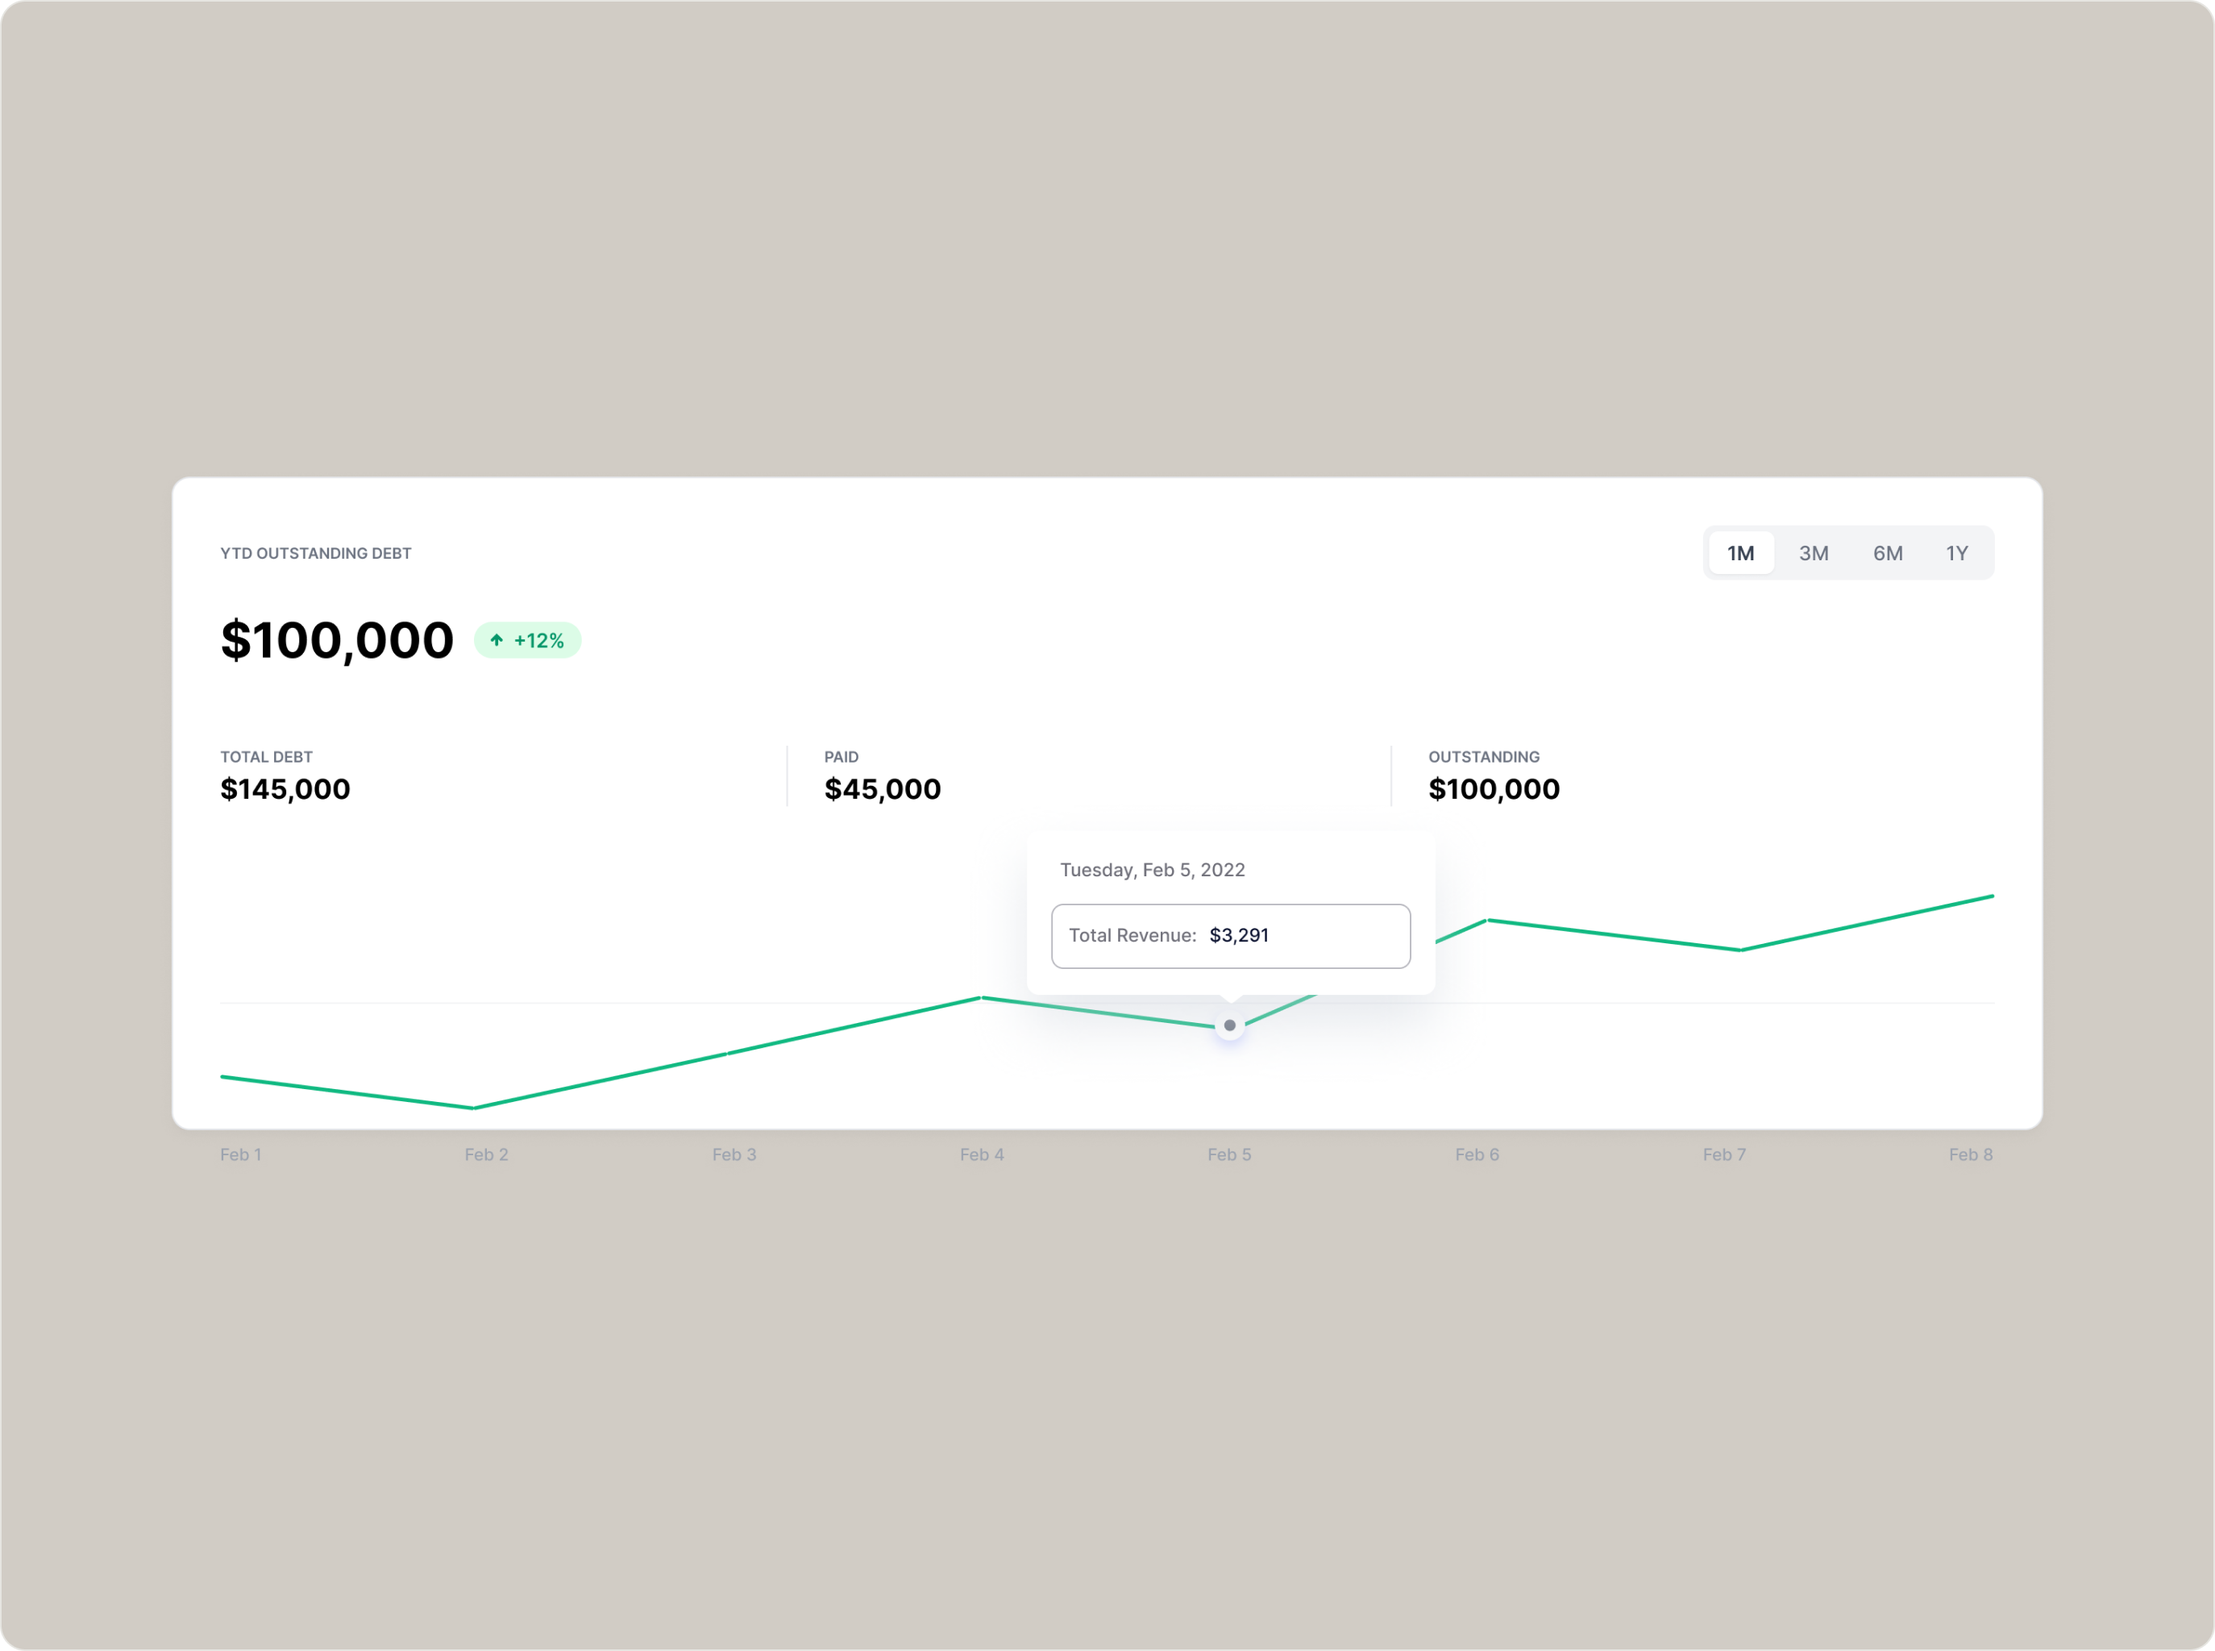
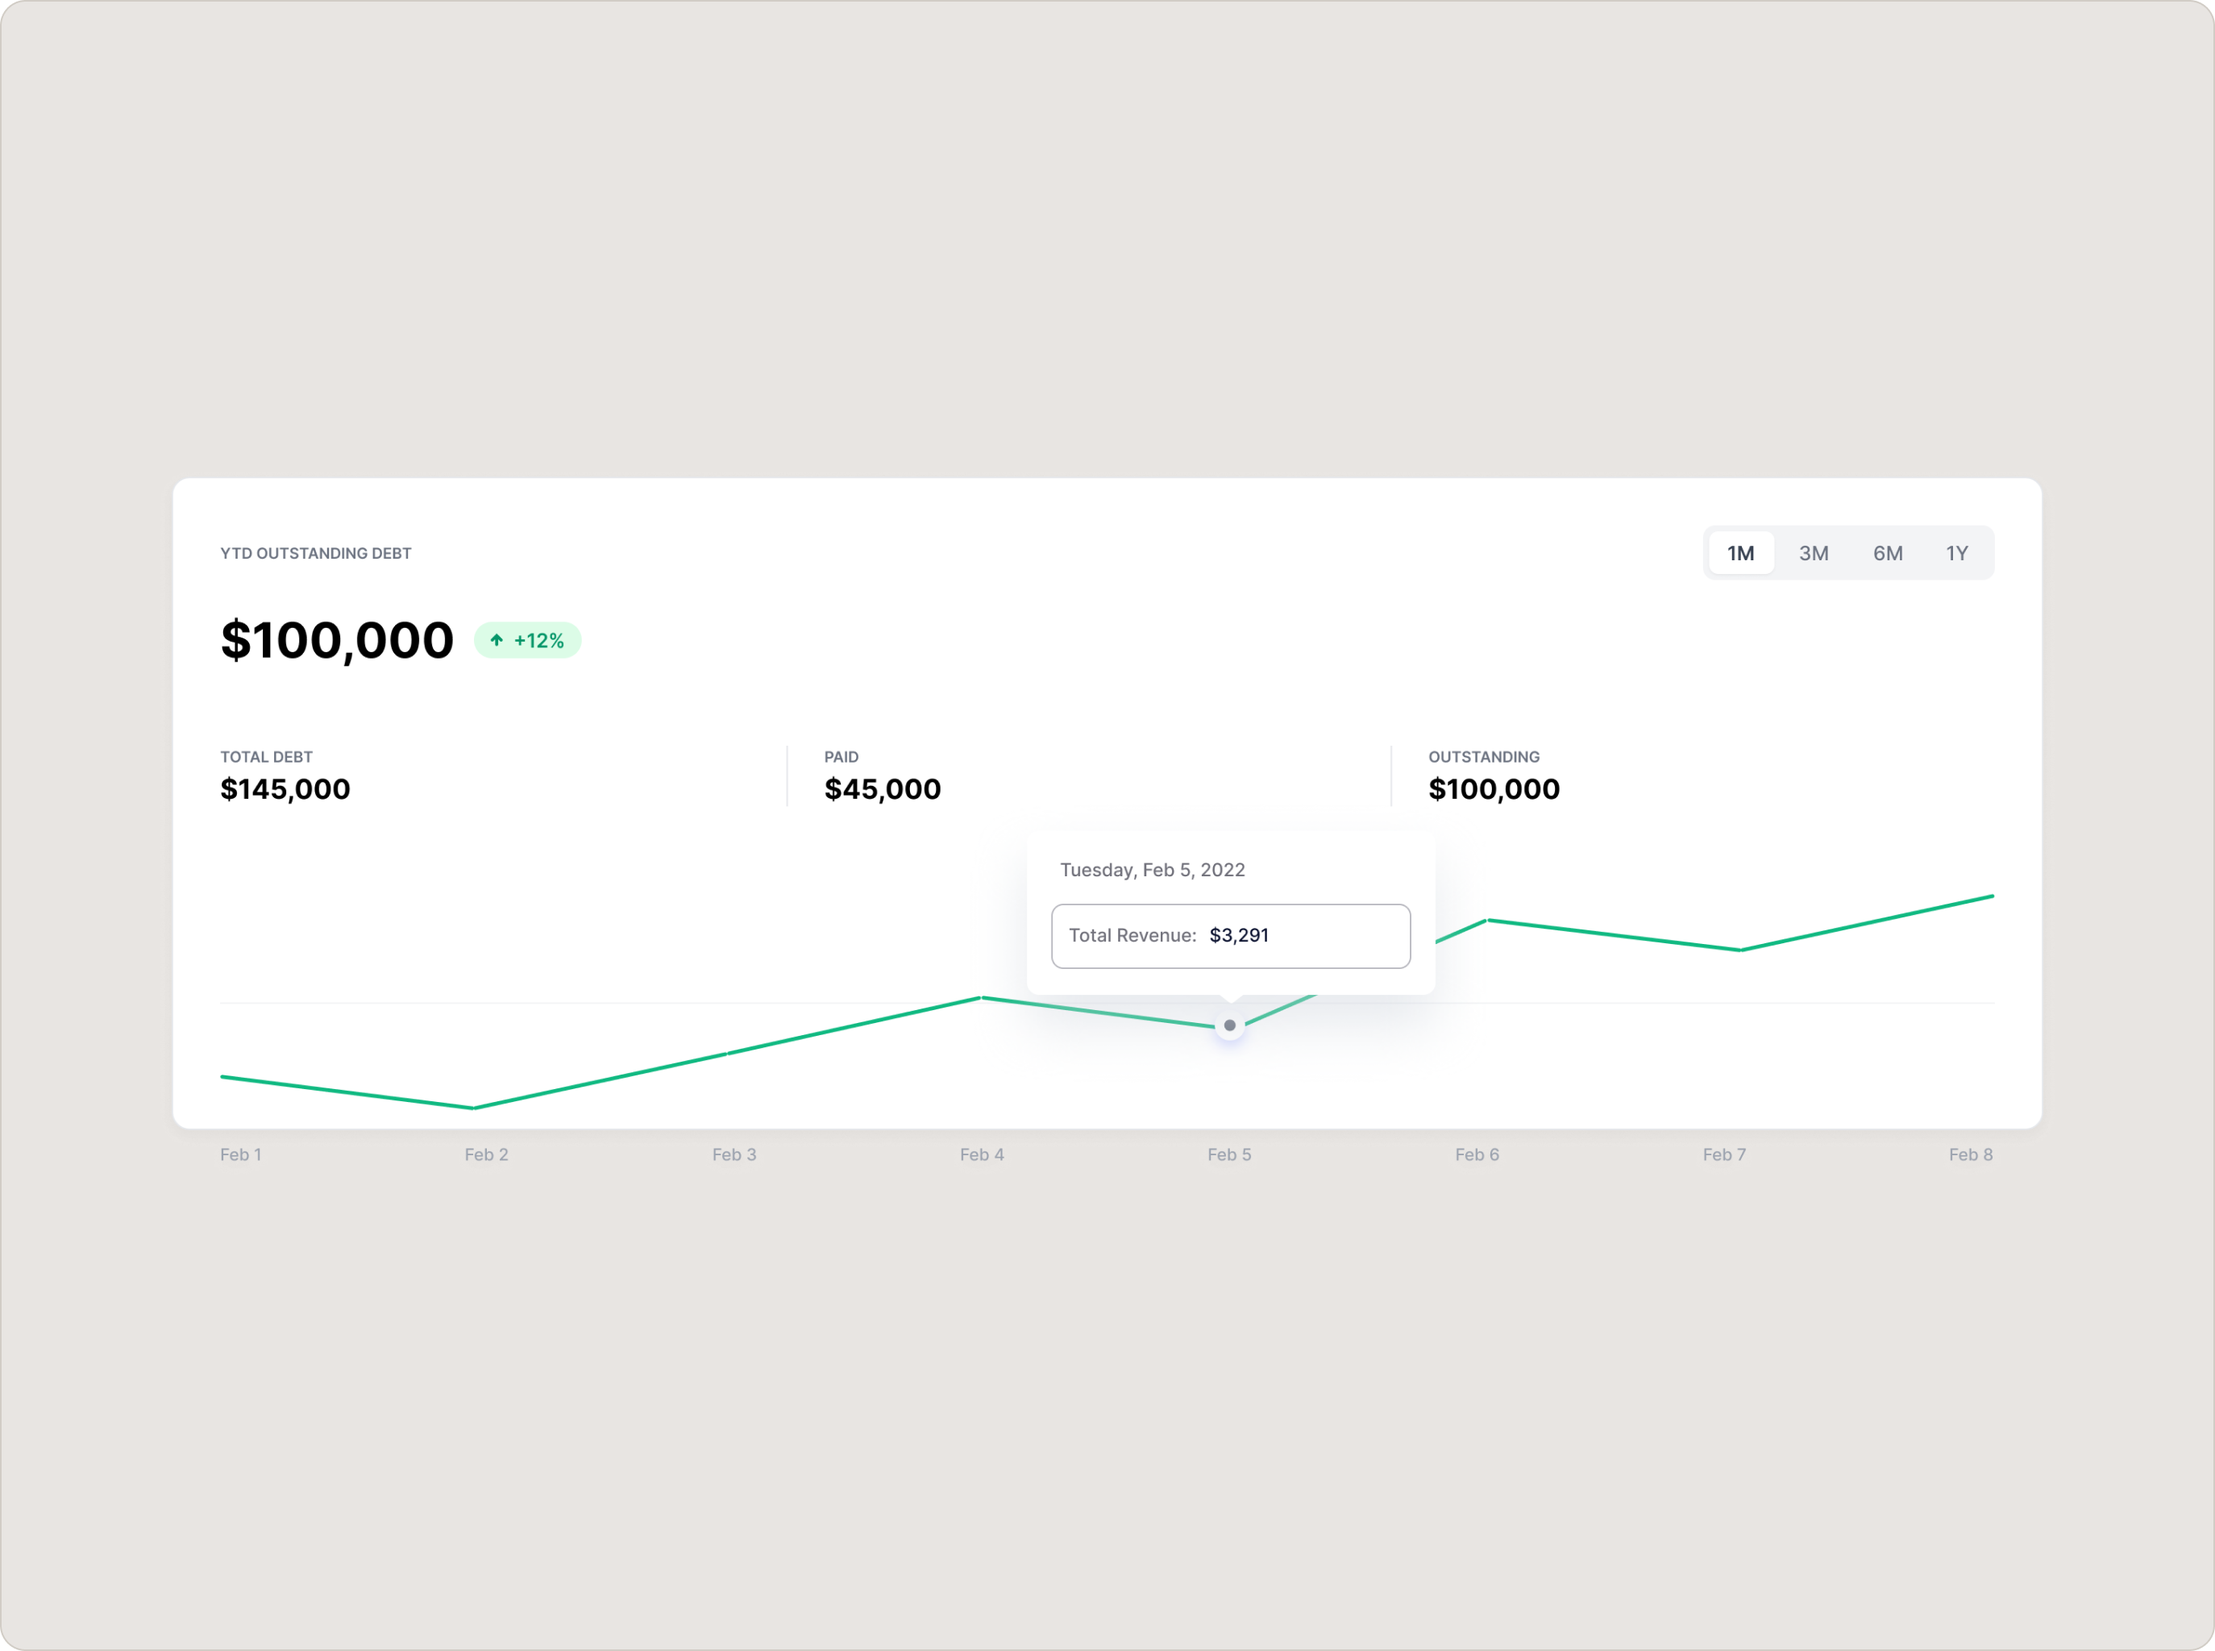
Polish DarkOutroSection and outro card styling
- Reduce padding py-16/py-20 → py-10/py-12 and gap-12 → gap-8 globally
- Shrink horizontal padding px-16 → px-12
- Overcast variant: background opacity 55% → 50%, stroke changed from surface-card (#E6E5E1) to #D1CCC5

diff --git a/components/case-study/DarkOutroSection.tsx b/components/case-study/DarkOutroSection.tsx
@@ -26,7 +26,7 @@ export default function DarkOutroSection({
 
   if (isOvercast) {
     return (
-      <section className="surface-card bg-portfolio-surface-deep/55 rounded-card px-8 md:px-16 py-16 md:py-20 flex flex-col gap-12">
+      <section className="bg-portfolio-surface-deep/50 rounded-card px-8 md:px-12 py-10 md:py-12 flex flex-col gap-8" style={{ boxShadow: 'inset 0 0 0 1px #D1CCC5' }}>
         <div className="flex flex-col gap-4">
           <p className="font-mono text-[13px] tracking-[0.05em] uppercase text-black/50">{label}</p>
           <h2 className="text-h2 font-bold leading-[1.08] tracking-[-0.025em] text-black">{heading}</h2>
@@ -61,7 +61,7 @@ export default function DarkOutroSection({
 
   return (
     <section className="bg-black rounded-card overflow-hidden">
-      <DarkCard className="px-8 md:px-16 py-16 md:py-20 flex flex-col gap-12">
+      <DarkCard className="px-8 md:px-12 py-10 md:py-12 flex flex-col gap-8">
 
         <div className="flex flex-col gap-4">
           <p className="font-mono text-[13px] tracking-[0.05em] uppercase text-white/50">{label}</p>
